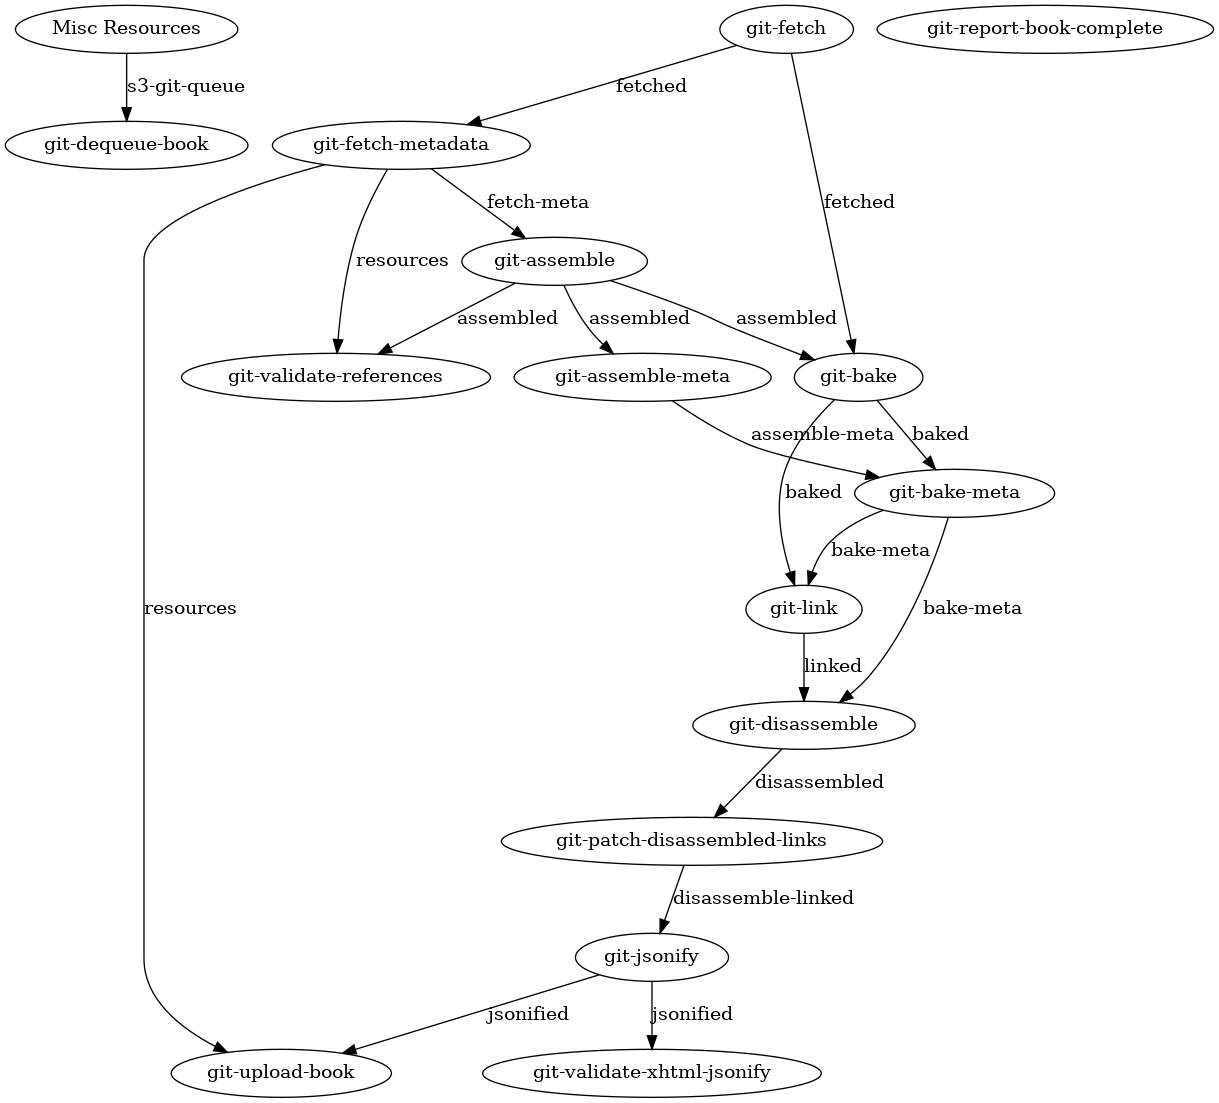
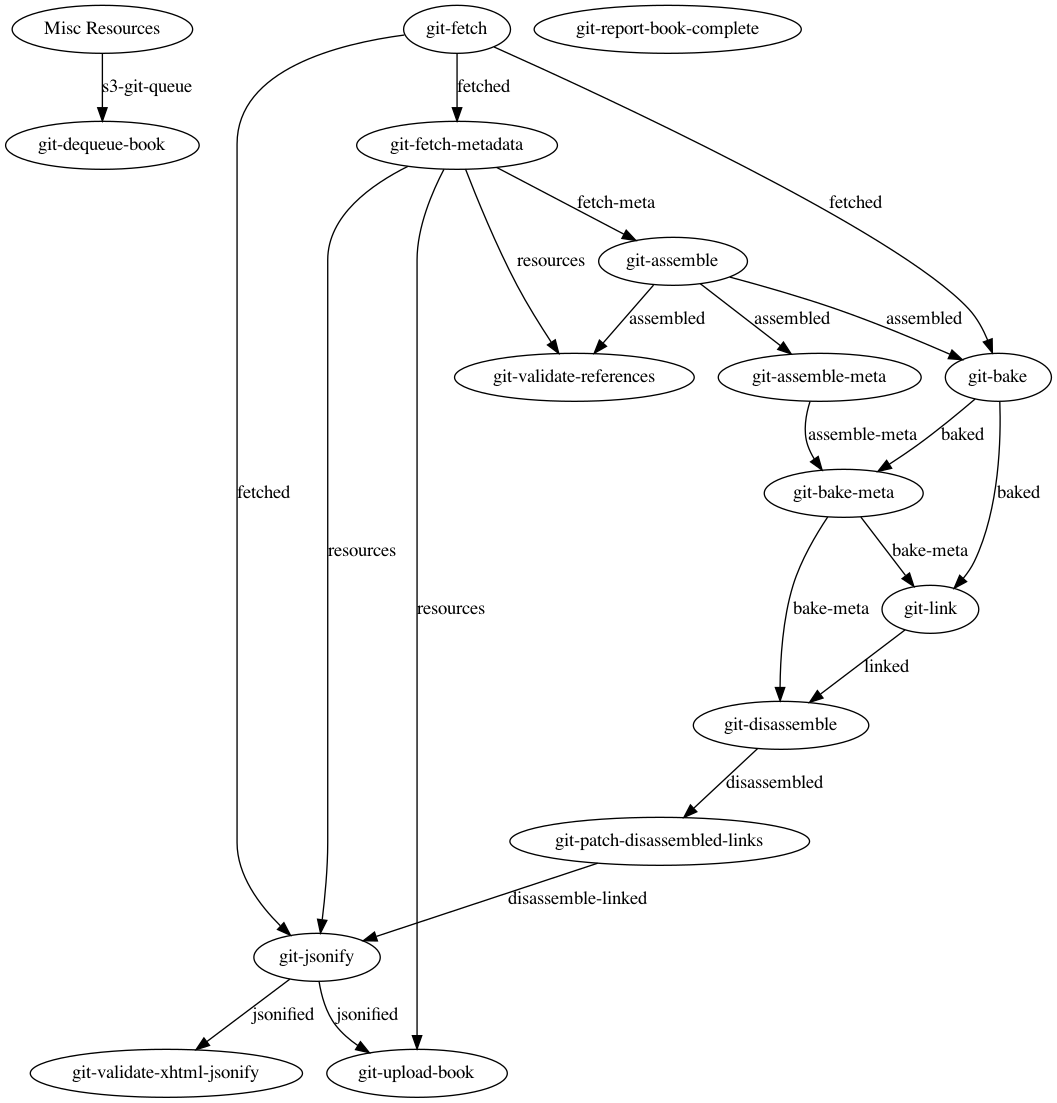
Add schema version and style to book json (#68)
* Append repo_schema_version and style to books json
...and add style file to resources
Use webview-generic or style_name-web

diff --git a/build-concourse/step-definitions.ts b/build-concourse/step-definitions.ts
@@ -66,7 +66,7 @@ set({name: 'git-pdfify-meta', inputs: [IO.BOOK, IO.ARTIFACTS], outputs: [IO.ARTI
 // GIT_WEB_STEPS
 set({name: 'git-disassemble', inputs: [IO.BOOK, IO.LINKED, IO.BAKE_META], outputs: [IO.DISASSEMBLED], env: {}})
 set({name: 'git-patch-disassembled-links', inputs: [IO.BOOK, IO.DISASSEMBLED], outputs: [IO.DISASSEMBLE_LINKED], env: {}})
-set({name: 'git-jsonify', inputs: [IO.BOOK, IO.DISASSEMBLE_LINKED], outputs: [IO.JSONIFIED], env: {}})
+set({name: 'git-jsonify', inputs: [IO.BOOK, IO.FETCHED, IO.RESOURCES, IO.DISASSEMBLE_LINKED], outputs: [IO.JSONIFIED], env: {}})
 set({name: 'git-validate-xhtml-jsonify', inputs: [IO.BOOK, IO.JSONIFIED], outputs: [], env: {}})
 set({name: 'git-upload-book', inputs: [IO.BOOK, IO.JSONIFIED, IO.RESOURCES], outputs: [IO.ARTIFACTS], env: {CODE_VERSION: true, CORGI_ARTIFACTS_S3_BUCKET: true, PREVIEW_APP_URL_PREFIX: true, AWS_ACCESS_KEY_ID: true, AWS_SECRET_ACCESS_KEY: true, AWS_SESSION_TOKEN: false}})
 
